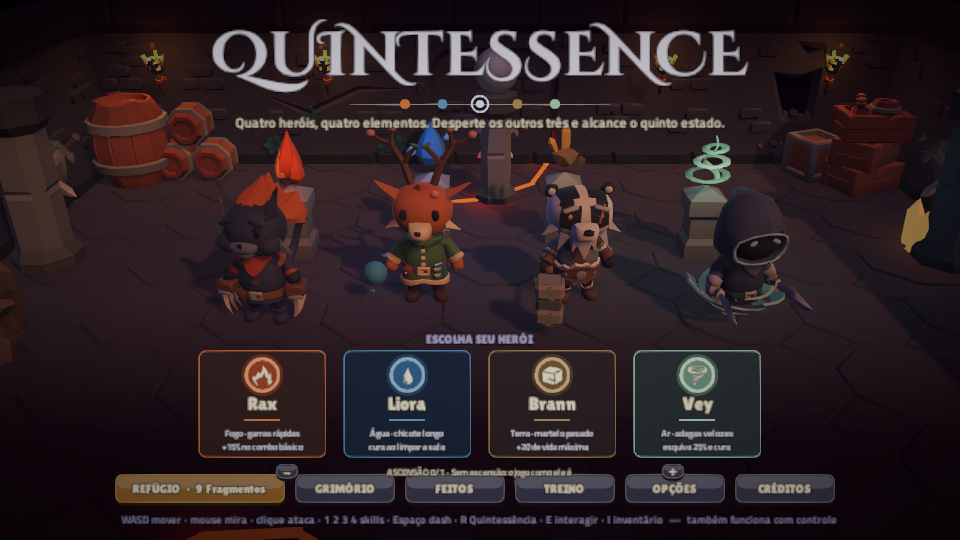
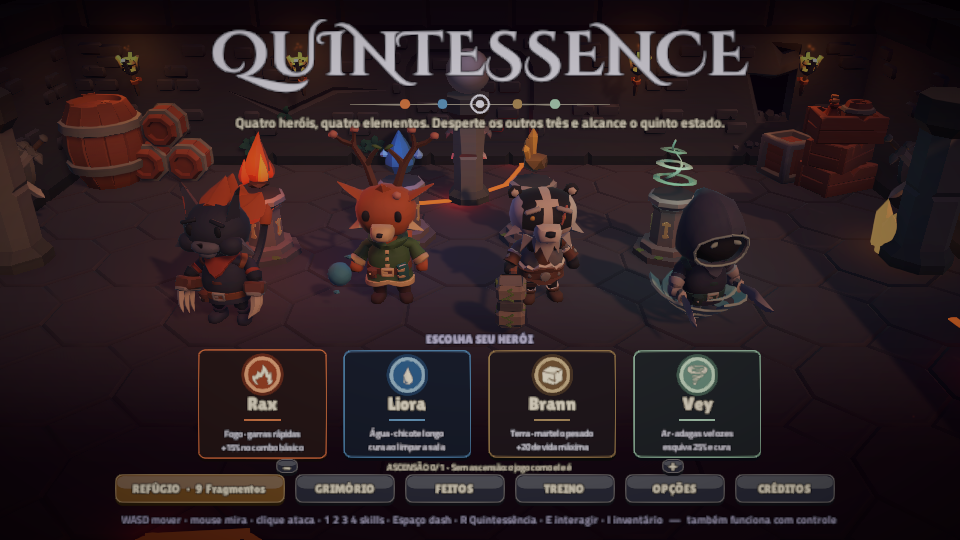
Título e som: o jogo ganha um AudioListener (nenhuma cena tinha um, então nada se ouvia); ícones das cartas não viram quadrados brancos no segundo Play; linha da Ascensão entre as cartas e os botões, sem o − e o + por cima do REFÚGIO e do OPÇÕES; Maestria e vitórias fora do círculo da carta. O teste

diff --git a/Assets/Game/UI/TitleMenu.cs b/Assets/Game/UI/TitleMenu.cs
@@ -65,12 +65,14 @@ namespace Quintessence.UI
             int unlocked = meta != null ? Quintessence.Run.Ascension.Unlocked(meta.Wins) : 0;
             if (unlocked <= 0) { Ascension = 0; return; }
             Ascension = Mathf.Clamp(Ascension, 0, unlocked);
-            var asc = UiKit.Rect("Ascension", root, new Vector2(0.5f, 0), new Vector2(0, 122), new Vector2(860, 32));
+            // cabe na faixa entre o topo da fileira de botoes (74 + 58 = 132) e o pe das cartas (164); em 122 o "−" e o "+"
+            // invadiam o REFUGIO e o OPCOES
+            var asc = UiKit.Rect("Ascension", root, new Vector2(0.5f, 0), new Vector2(0, 132), new Vector2(860, 32));
             if (refuge != null) asc.SetSiblingIndex(refuge.GetSiblingIndex());
             var label = UiKit.Text(UiKit.Rect("Label", asc, mid, Vector2.zero, new Vector2(740, 30)), "", 20, UiKit.Cream, TextAnchor.MiddleCenter, false);
             void Refresh() => label.text = $"ASCENSÃO {Ascension}/{unlocked}  ·  {Quintessence.Run.Ascension.Describe(Ascension)}";
-            UiKit.Button(asc, "−", new Vector2(0, 0.5f), new Vector2(22, 0), new Vector2(44, 30), UiKit.Secondary, () => { Ascension = Mathf.Max(0, Ascension - 1); Refresh(); });
-            UiKit.Button(asc, "+", new Vector2(1, 0.5f), new Vector2(-22, 0), new Vector2(44, 30), UiKit.Secondary, () => { Ascension = Mathf.Min(unlocked, Ascension + 1); Refresh(); });
+            UiKit.Button(asc, "−", new Vector2(0, 0.5f), new Vector2(22, 0), new Vector2(44, 28), UiKit.Secondary, () => { Ascension = Mathf.Max(0, Ascension - 1); Refresh(); });
+            UiKit.Button(asc, "+", new Vector2(1, 0.5f), new Vector2(-22, 0), new Vector2(44, 28), UiKit.Secondary, () => { Ascension = Mathf.Min(unlocked, Ascension + 1); Refresh(); });
             Refresh();
         }
 
@@ -502,8 +504,11 @@ namespace Quintessence.UI
                 noteLabels[i] = UiKit.Text(UiKit.Rect("Note", card, new Vector2(0.5f, 0), new Vector2(0, 10), new Vector2(236, 54)), notes[i], 21, UiKit.Paper, TextAnchor.MiddleCenter, false);
                 noteTexts[i] = notes[i];
                 UiKit.Fit(noteLabels[i], 15, 21);
-                heroWinLabels[i] = UiKit.Text(UiKit.Rect("Wins", card, new Vector2(1, 1), new Vector2(-38, -18), new Vector2(70, 22)), "", 17, new Color(0.9f, 0.76f, 0.42f), TextAnchor.MiddleRight, false);
-                heroMasteryLabels[i] = UiKit.Text(UiKit.Rect("Mastery", card, new Vector2(0, 1), new Vector2(12, -18), new Vector2(80, 22)), "", 17, UiKit.Cream, TextAnchor.MiddleLeft, false);
+                // nos cantos de cima, fora do circulo do icone (o halo vai de 86 a 170 px na carta de 256): o "1 vitoria" em
+                // -38 e o "Maestria 1" largo encostavam no circulo
+                heroWinLabels[i] = UiKit.Text(UiKit.Rect("Wins", card, new Vector2(1, 1), new Vector2(-10, -18), new Vector2(74, 22)), "", 17, new Color(0.9f, 0.76f, 0.42f), TextAnchor.MiddleRight, false);
+                UiKit.Fit(heroWinLabels[i], 12, 17);
+                heroMasteryLabels[i] = UiKit.Text(UiKit.Rect("Mastery", card, new Vector2(0, 1), new Vector2(10, -18), new Vector2(74, 22)), "", 17, UiKit.Cream, TextAnchor.MiddleLeft, false);
                 UiKit.Fit(heroMasteryLabels[i], 12, 17);
             }
             var open = UiKit.Button(root, "REFÚGIO", new Vector2(0.5f, 0), new Vector2(-560, 74), new Vector2(340, 58), UiKit.Primary, () => ShowRefuge(true));

diff --git a/Assets/Game/Game/Tests/PlayMode/RunPlayTests.cs b/Assets/Game/Game/Tests/PlayMode/RunPlayTests.cs
@@ -84,11 +84,17 @@ namespace Quintessence.Game.PlayTests
 
             // passar o mouse numa carta acende o pedestal daquele elemento no altar
             var title = Object.FindFirstObjectByType<TitleController>();
+            // com um controle de verdade ligado na maquina, a primeira carta ja nasce escolhida (e conta como acesa):
+            // este trecho e sobre o mouse, entao comeca sem nada escolhido
+            if (UnityEngine.EventSystems.EventSystem.current != null) UnityEngine.EventSystems.EventSystem.current.SetSelectedGameObject(null);
+            // o pedestal que a selecao acendeu volta ao normal (a luz anda em tempo real, entao espera ela parar)
+            float last = -1f;
+            for (int i = 0; i < 600 && Mathf.Abs(title.LightOf(0) - last) > 0.002f; i++) { last = title.LightOf(0); yield return null; }
             Assert.AreEqual(-1, menu.HoveredElement);
             float before = title.LightOf(0);
             GameObject.Find("Card_Rax").GetComponent<UiHover>().OnPointerEnter(null);
             Assert.AreEqual(0, menu.HoveredElement);
-            for (int i = 0; i < 40; i++) yield return null;
+            for (int i = 0; i < 600 && title.LightOf(0) <= before + 2f; i++) yield return null;
             Assert.Greater(title.LightOf(0), before + 2f, "o pedestal de Fogo deveria acender");
             Assert.AreEqual(0, title.Cheering, "o Rax comemora quando a carta dele esta sob o mouse");
             Assert.Less(title.LightOf(1), before + 1f, "os outros ficam como estavam");
@@ -3287,12 +3293,6 @@ namespace Quintessence.Game.PlayTests
             File.WriteAllBytes(path, tex.EncodeToPNG());
         }
 
-        IEnumerator Step()
-        {
-            yield return null;
-            if (frame++ % 3 != 0 || cam == null) yield break;
-            Render(cam);
-            File.WriteAllBytes($"{FrameDir}/f{saved++:00000}.jpg", tex.EncodeToJPG(85));
         /// Bug do playtest de 18/11: a Sacerdotisa da Elite nasceu atras da parede do fundo (o gerador fica em z = 1 e o
         /// raio passava da parede; havia malha de navegacao do lado de fora) e o chefe nao tinha o resgate dos comuns.
         [UnityTest, Timeout(600000)]
@@ -3350,6 +3350,12 @@ namespace Quintessence.Game.PlayTests
             Time.captureFramerate = 0;
         }
 
+        IEnumerator Step()
+        {
+            yield return null;
+            if (frame++ % 3 != 0 || cam == null) yield break;
+            Render(cam);
+            File.WriteAllBytes($"{FrameDir}/f{saved++:00000}.jpg", tex.EncodeToJPG(85));
         }
     }
 }

diff --git a/Assets/Game/UI/UiKit.cs b/Assets/Game/UI/UiKit.cs
@@ -67,7 +67,9 @@ namespace Quintessence.UI
         /// Icone de Assets/Resources/Icons (silhueta branca, para tingir).
         public static Sprite Icon(string name)
         {
-            if (icons.TryGetValue(name, out var s)) return s;
+            // o sprite e criado em tempo de jogo e o Unity o destroi ao sair do Play; sem recarregar o dominio o
+            // dicionario sobrevive com a entrada morta e a imagem saia como um quadrado branco no segundo Play
+            if (icons.TryGetValue(name, out var s) && s != null) return s;
             var tex = Resources.Load<Texture2D>("Icons/" + name);
             s = tex != null ? Sprite.Create(tex, new Rect(0, 0, tex.width, tex.height), new Vector2(0.5f, 0.5f), 100f) : Circle;
             icons[name] = s;

diff --git a/Assets/Game/Feel/AudioDirector.cs b/Assets/Game/Feel/AudioDirector.cs
@@ -40,6 +40,9 @@ namespace Quintessence.Feel
             var go = new GameObject("AudioDirector");
             DontDestroyOnLoad(go);
             instance = go.AddComponent<AudioDirector>();
+            // as cenas sao geradas por codigo e a camera nasce sem AudioListener: todo som e 2D, entao o ouvido mora
+            // aqui, junto de quem toca, e vale para o titulo e para a run
+            if (FindAnyObjectByType<AudioListener>() == null) go.AddComponent<AudioListener>();
         }
 
         void Awake()
